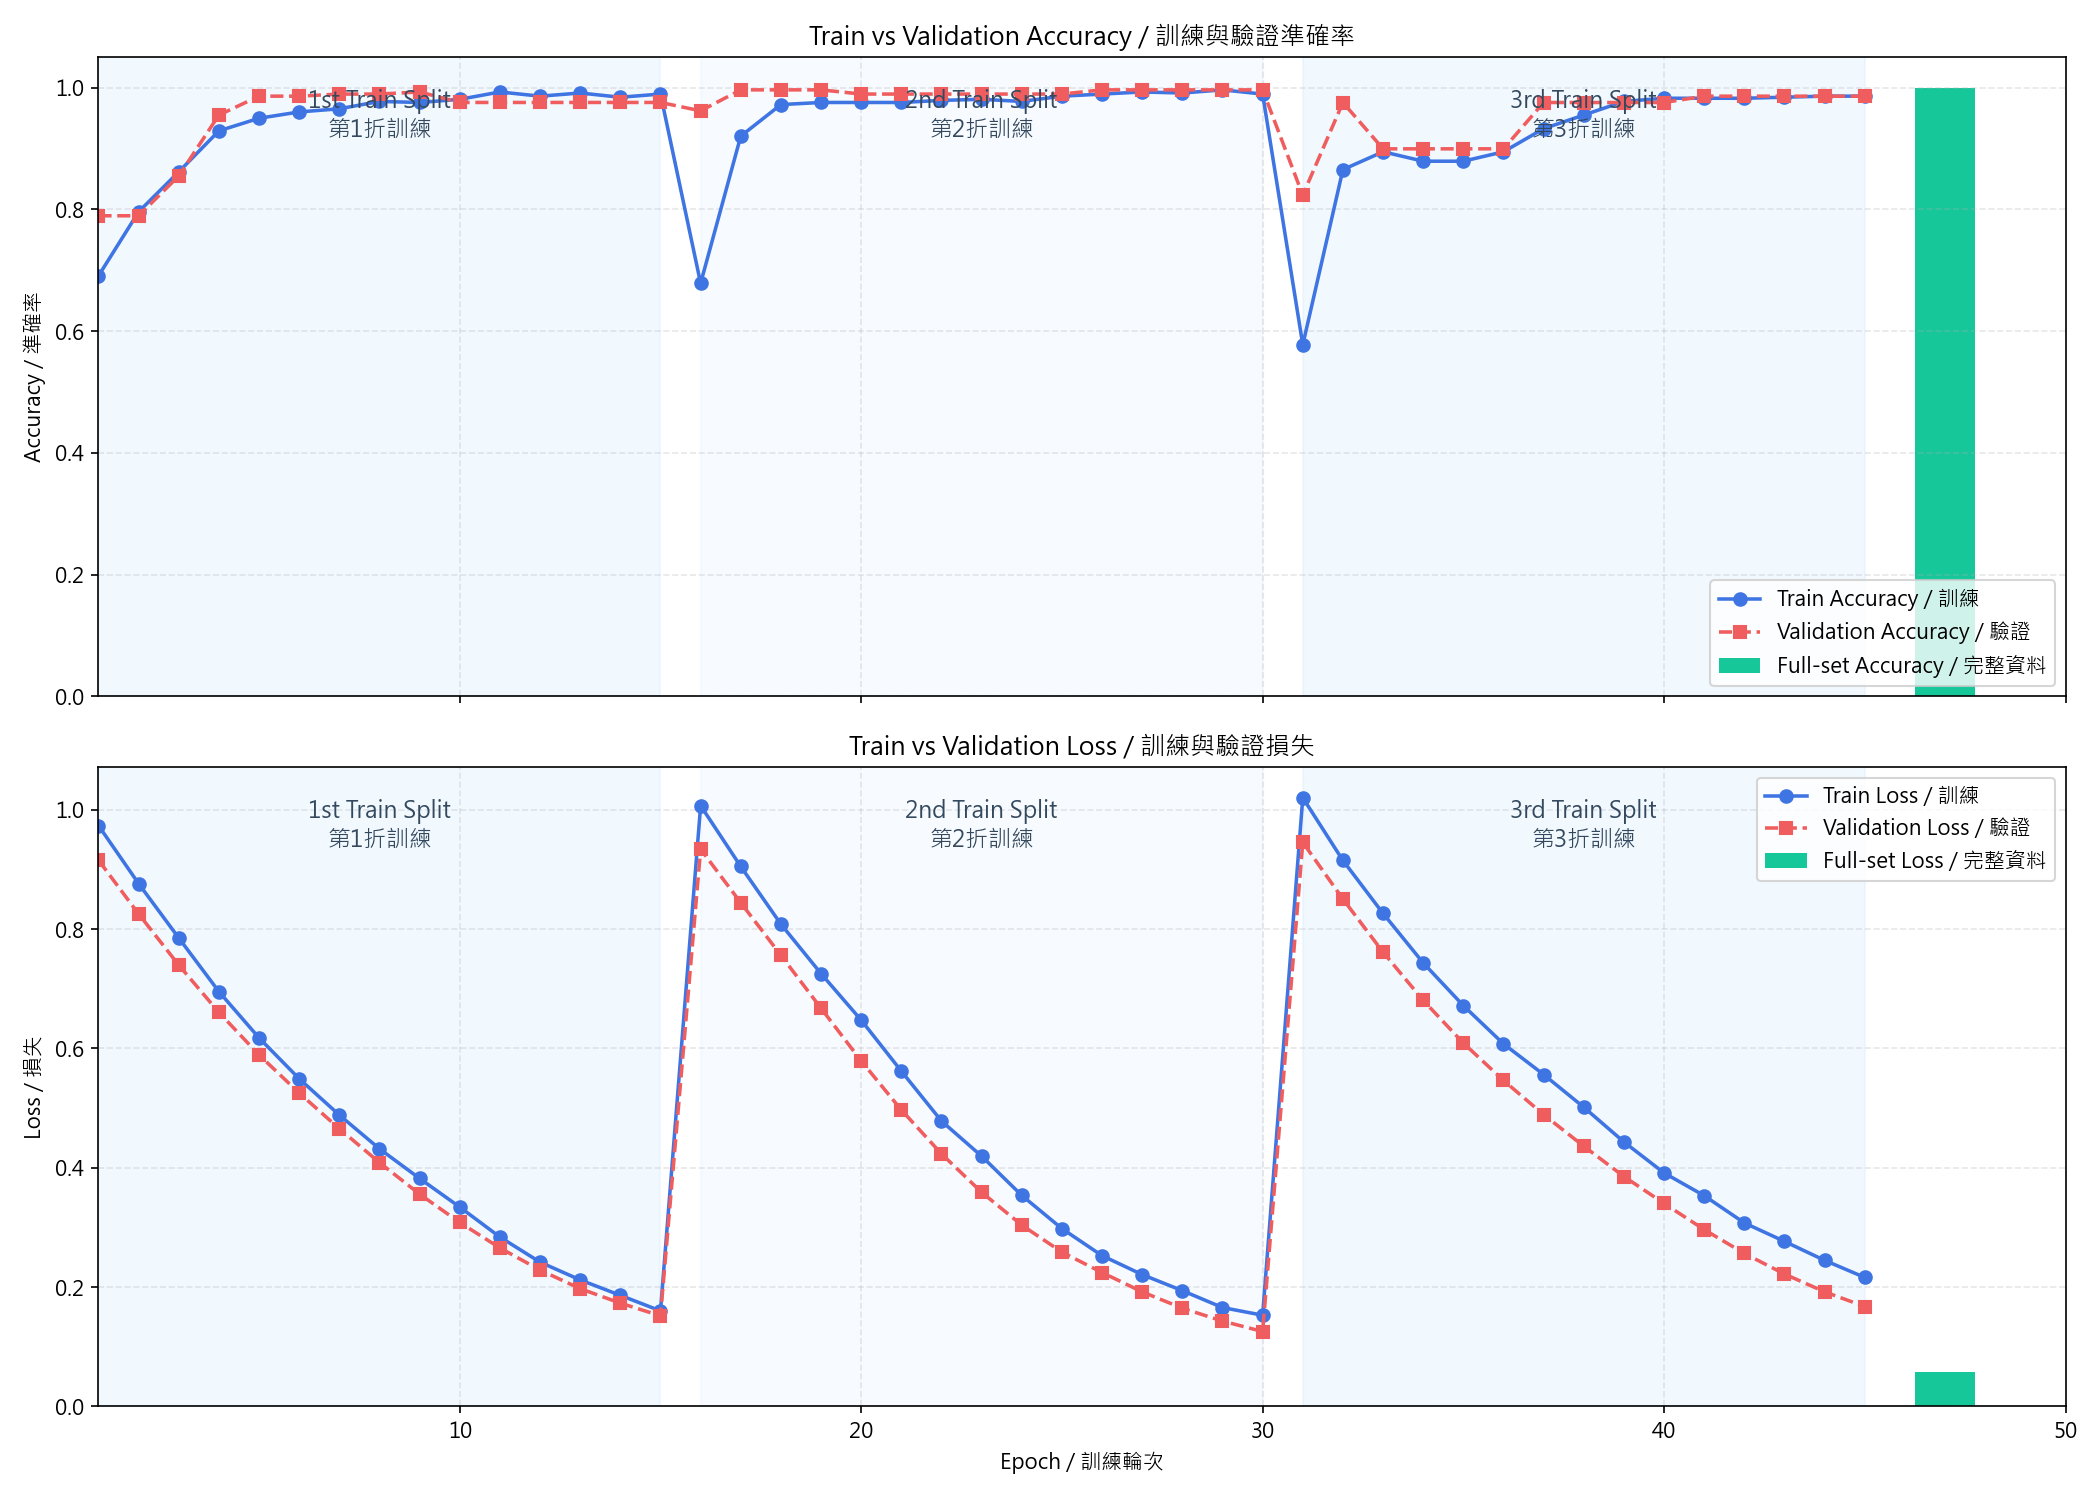
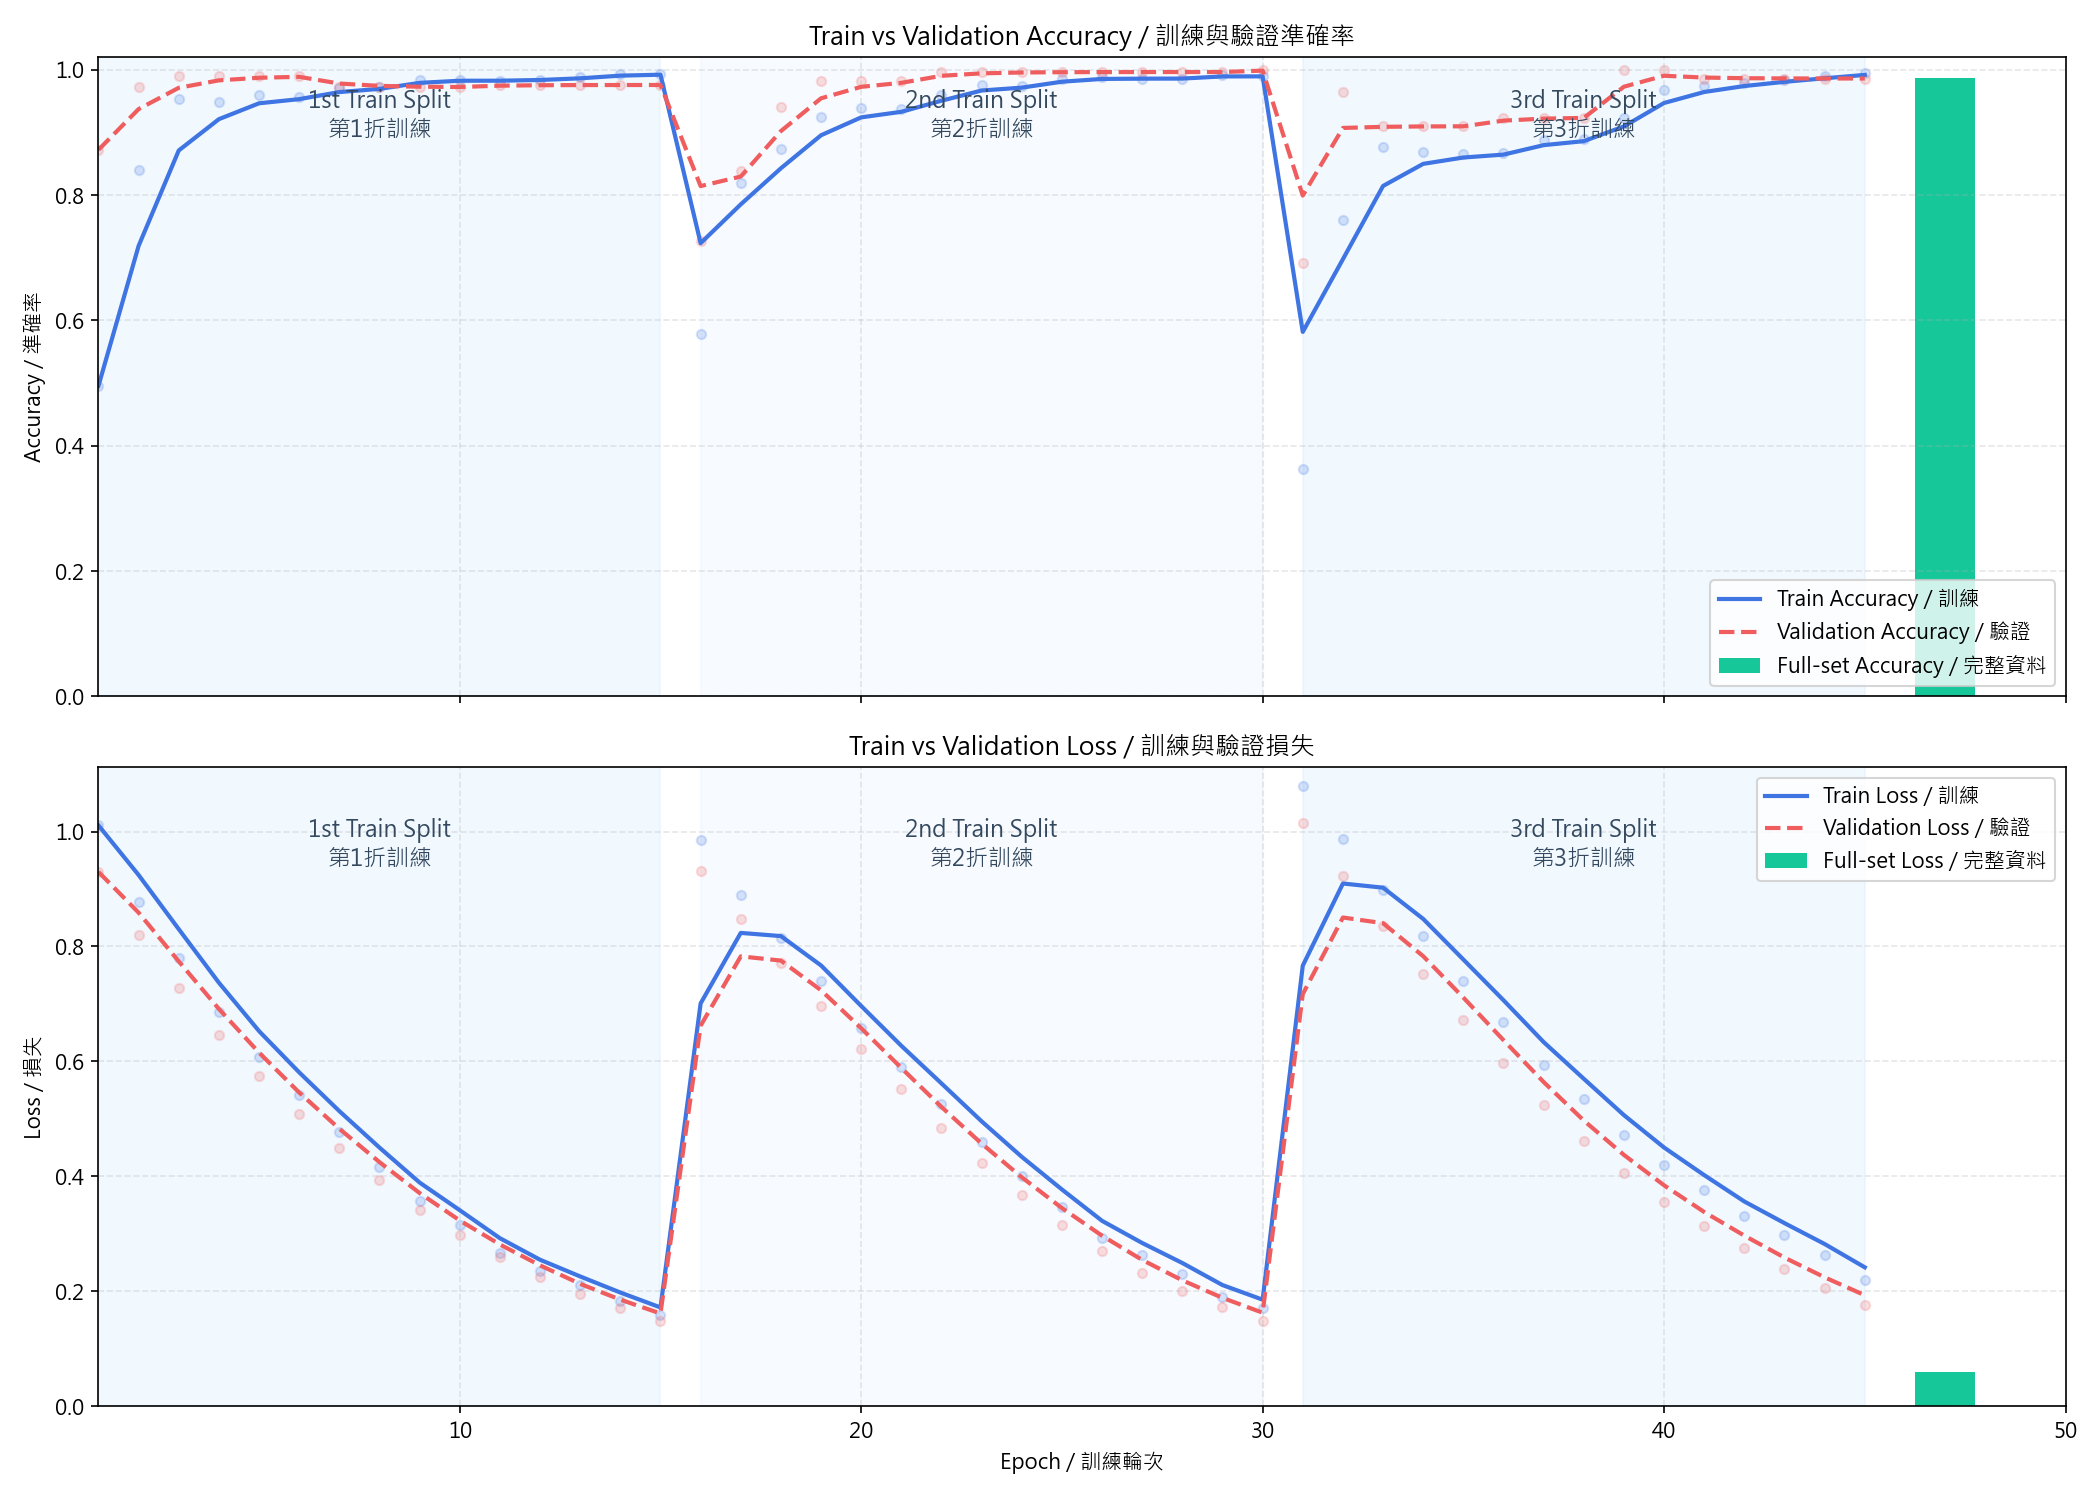
Smooth training curves with exponential averaging

diff --git a/train_classifier.py b/train_classifier.py
@@ -46,6 +46,8 @@ SPLIT_LABELS = {
     3: "3rd Train Split\n第3折訓練",
 }
 
+SMOOTH_ALPHA = 0.35  # smoothing strength for curves
+
 if hasattr(sys.stdout, "reconfigure"):
     sys.stdout.reconfigure(encoding="utf-8", errors="replace")
 if hasattr(sys.stderr, "reconfigure"):
@@ -162,11 +164,20 @@ def plot_analysis(classes, class_counts, confusion_matrix_raw, confusion_norm) -
     plt.close(fig)
 
 
-def expand_epochs(fold_ranges, history_len):
-    start, end = fold_ranges
+def expand_epochs(start: int, history_len: int) -> np.ndarray:
     if history_len <= 1:
         return np.array([float(start)])
-    return np.linspace(start, end, history_len, endpoint=True)
+    stop = start + history_len - 1
+    return np.linspace(start, stop, history_len, endpoint=True)
+
+
+def smooth_curve(values: list[float], alpha: float = SMOOTH_ALPHA) -> list[float]:
+    if not values:
+        return []
+    smoothed = [values[0]]
+    for v in values[1:]:
+        smoothed.append(smoothed[-1] * alpha + v * (1 - alpha))
+    return smoothed
 
 
 def plot_training_curves(fold_histories: list[dict], fold_ranges: dict[int, tuple[int, int]], production_metrics: dict[str, float]) -> None:
@@ -187,20 +198,22 @@ def plot_training_curves(fold_histories: list[dict], fold_ranges: dict[int, tupl
         for axis in axes:
             axis.axvspan(start, end, color="#cbe8ff", alpha=alpha)
 
-    train_acc_x: list[float] = []
-    train_acc_y: list[float] = []
-    val_acc_x: list[float] = []
-    val_acc_y: list[float] = []
-    train_loss_x: list[float] = []
-    train_loss_y: list[float] = []
-    val_loss_x: list[float] = []
-    val_loss_y: list[float] = []
+    train_acc_x = []
+    train_acc_y = []
+    val_acc_x = []
+    val_acc_y = []
+    train_loss_x = []
+    train_loss_y = []
+    val_loss_x = []
+    val_loss_y = []
 
+    cumulative_start = min_epoch
     for fold_info in fold_histories:
         fold = fold_info["fold"]
         history = fold_info["history"]
-        rng = fold_ranges[fold]
-        epochs = expand_epochs(rng, len(history.get("accuracy", [])))
+        length = len(history.get("accuracy", []))
+        epochs = expand_epochs(cumulative_start, length)
+        cumulative_start += length
 
         train_acc_x.extend(epochs)
         train_acc_y.extend(history.get("accuracy", []))
@@ -214,13 +227,24 @@ def plot_training_curves(fold_histories: list[dict], fold_ranges: dict[int, tupl
             val_loss_x.extend(epochs)
             val_loss_y.extend(history["val_loss"])
 
-    axes[0].plot(train_acc_x, train_acc_y, color="#3f74e3", linewidth=1.7, marker="o", label="Train Accuracy / 訓練")
-    if val_acc_x:
-        axes[0].plot(val_acc_x, val_acc_y, color="#f05d5e", linewidth=1.7, linestyle="--", marker="s", label="Validation Accuracy / 驗證")
+    train_acc_s = smooth_curve(train_acc_y)
+    val_acc_s = smooth_curve(val_acc_y)
+    train_loss_s = smooth_curve(train_loss_y)
+    val_loss_s = smooth_curve(val_loss_y)
 
-    axes[1].plot(train_loss_x, train_loss_y, color="#3f74e3", linewidth=1.7, marker="o", label="Train Loss / 訓練")
+    axes[0].plot(train_acc_x, train_acc_s, color="#3f74e3", linewidth=2.0, label="Train Accuracy / 訓練")
+    if val_acc_x:
+        axes[0].plot(val_acc_x, val_acc_s, color="#f05d5e", linewidth=2.0, linestyle="--", label="Validation Accuracy / 驗證")
+    axes[0].scatter(train_acc_x, train_acc_y, color="#3f74e3", alpha=0.2, s=20)
+    if val_acc_x:
+        axes[0].scatter(val_acc_x, val_acc_y, color="#f05d5e", alpha=0.2, s=20)
+
+    axes[1].plot(train_loss_x, train_loss_s, color="#3f74e3", linewidth=2.0, label="Train Loss / 訓練")
     if val_loss_x:
-        axes[1].plot(val_loss_x, val_loss_y, color="#f05d5e", linewidth=1.7, linestyle="--", marker="s", label="Validation Loss / 驗證")
+        axes[1].plot(val_loss_x, val_loss_s, color="#f05d5e", linewidth=2.0, linestyle="--", label="Validation Loss / 驗證")
+    axes[1].scatter(train_loss_x, train_loss_y, color="#3f74e3", alpha=0.2, s=20)
+    if val_loss_x:
+        axes[1].scatter(val_loss_x, val_loss_y, color="#f05d5e", alpha=0.2, s=20)
 
     test_epoch = max_epoch + 2
     axes[0].bar([test_epoch], [production_metrics.get("accuracy", np.nan)], width=1.5, color="#16c79a", label="Full-set Accuracy / 完整資料")
@@ -230,20 +254,22 @@ def plot_training_curves(fold_histories: list[dict], fold_ranges: dict[int, tupl
     axes[0].set_title("Train vs Validation Accuracy / 訓練與驗證準確率")
     axes[0].grid(True, linestyle="--", alpha=0.3)
     axes[0].set_xlim(min_epoch, test_epoch + 3)
-    axes[0].set_ylim(0, 1.05)
+    axes[0].set_ylim(0, 1.02)
     axes[0].legend(loc="lower right")
 
     axes[1].set_xlabel("Epoch / 訓練輪次")
     axes[1].set_ylabel("Loss / 損失")
     axes[1].set_title("Train vs Validation Loss / 訓練與驗證損失")
     axes[1].grid(True, linestyle="--", alpha=0.3)
+    loss_max = max(max(train_loss_s or [0]), max(val_loss_s or [0]), production_metrics.get("loss", 0))
     axes[1].set_xlim(min_epoch, test_epoch + 3)
+    axes[1].set_ylim(0, max(loss_max * 1.1, 0.05))
     axes[1].legend(loc="upper right")
 
     acc_ylim = axes[0].get_ylim()
     loss_ylim = axes[1].get_ylim()
     acc_y = acc_ylim[1] - (acc_ylim[1] - acc_ylim[0]) * 0.05
-    loss_y = loss_ylim[1] - (loss_ylim[1] - loss_ylim[0]) * 0.05
+    loss_y = loss_ylim[1] - (loss_ylim[1] - loss_ylim[0]) * 0.08
 
     for fold, (start, end) in fold_ranges.items():
         midpoint = (start + end) / 2
@@ -266,11 +292,7 @@ def main() -> None:
     if df.empty:
         raise ValueError("Dataset is empty after dropping NaNs")
 
-    df["label"] = df.apply(
-        auto_label,
-        axis=1,
-        args=(args.ph_low, args.ph_high, args.do_low, args.temp_high),
-    )
+    df["label"] = df.apply(auto_label, axis=1, args=(args.ph_low, args.ph_high, args.do_low, args.temp_high))
 
     features = df[["ph", "o2", "temp"]].astype("float32").values
     labels = df["label"].values
@@ -286,7 +308,7 @@ def main() -> None:
     confusion = np.zeros((len(classes), len(classes)), dtype=int)
     fold_histories: list[dict] = []
     fold_ranges: dict[int, tuple[int, int]] = {}
-    cumulative_epoch = 1
+    cumulative_start = 1
 
     for fold, (train_idx, val_idx) in enumerate(kf.split(features), start=1):
         scaler = StandardScaler().fit(features[train_idx])
@@ -303,11 +325,9 @@ def main() -> None:
             validation_data=(X_val, y_val),
         )
 
-        history_length = len(history.history.get("accuracy", []))
-        start_epoch = cumulative_epoch
-        end_epoch = start_epoch + history_length - 1
-        fold_ranges[fold] = (start_epoch, end_epoch)
-        cumulative_epoch = end_epoch + 1
+        length = len(history.history.get("accuracy", []))
+        fold_ranges[fold] = (cumulative_start, cumulative_start + length - 1)
+        cumulative_start += length
 
         fold_histories.append({"fold": fold, "history": history.history})
 
@@ -356,7 +376,11 @@ def main() -> None:
         confusion_norm = confusion / row_sums
         plot_analysis(classes, class_counts, confusion, confusion_norm)
         print(f"Saved analysis figure to {ANALYSIS_FIG}")
-        plot_training_curves(fold_histories, fold_ranges, {"accuracy": prod_acc, "loss": prod_loss})
+        plot_training_curves(
+            fold_histories,
+            fold_ranges,
+            {"accuracy": prod_acc, "loss": prod_loss},
+        )
         print(f"Saved training curves to {TRAINING_CURVE_FIG}")
 
 
